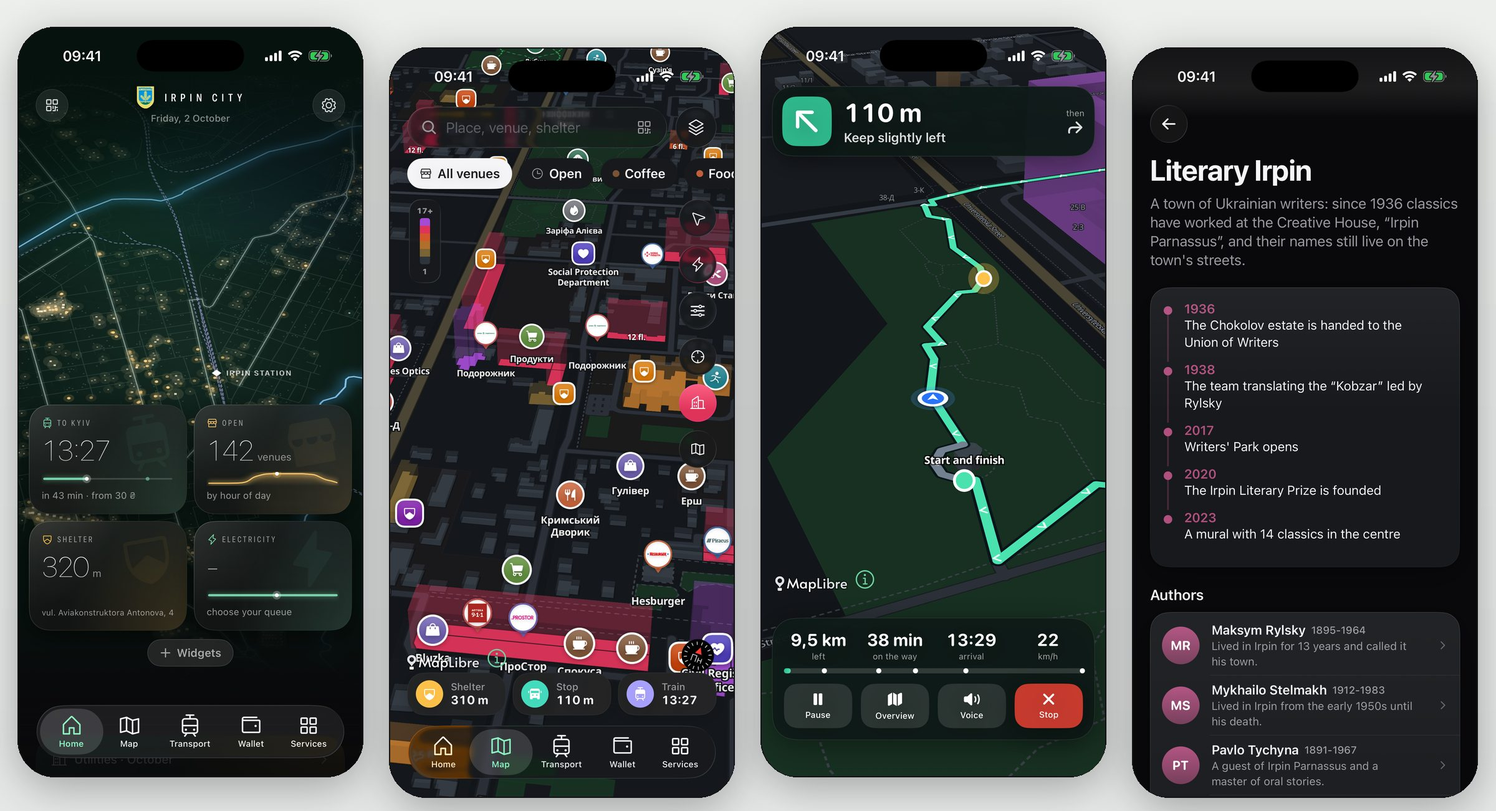
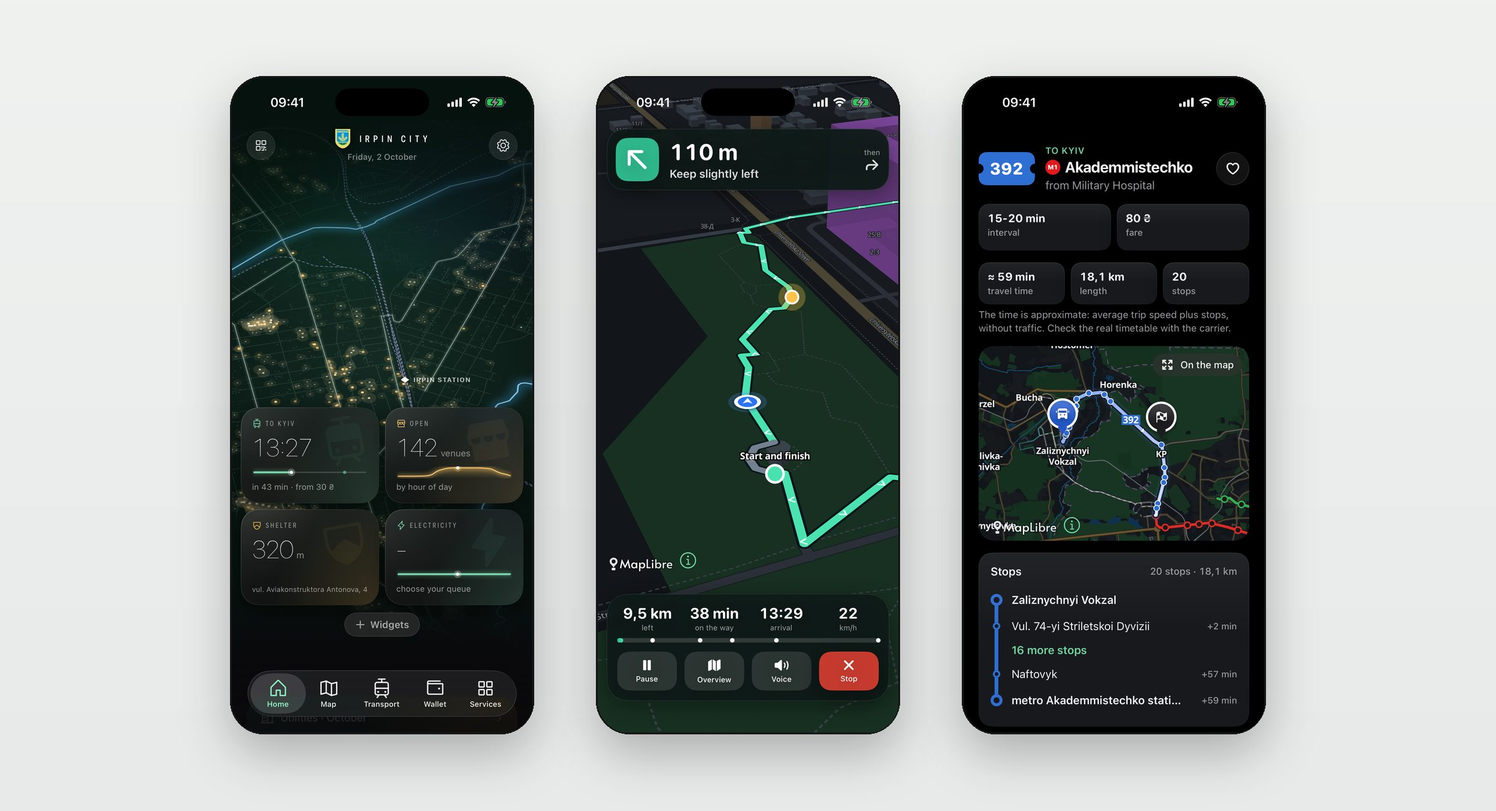
Irpin: feature sections instead of a screenshot strip, cleaner map frame, uncropped hero, home card split into labelled points

diff --git a/irpin/uk/index.html b/irpin/uk/index.html
@@ -56,8 +56,7 @@
       <div class="cta"><span class="btn soon" aria-disabled="true">Незабаром в App Store</span><a class="btn" href="/irpin/uk/support/">Підтримка</a></div>
     </div>
   </section>
-  <section class="shots" aria-label="Знімки екрана"><figure><img src="/irpin/img/uk/1-home.jpg" alt="Головна" width="450" height="978" loading="lazy" decoding="async"></figure><figure><img src="/irpin/img/uk/2-map.jpg" alt="Мапа з поверховістю будинків" width="450" height="978" loading="lazy" decoding="async"></figure><figure><img src="/irpin/img/uk/3-transport.jpg" alt="Транспорт" width="450" height="978" loading="lazy" decoding="async"></figure><figure><img src="/irpin/img/uk/4-services.jpg" alt="Послуги й довідник номерів" width="450" height="978" loading="lazy" decoding="async"></figure><figure><img src="/irpin/img/uk/5-literary.jpg" alt="Літературний Ірпінь" width="450" height="978" loading="lazy" decoding="async"></figure><figure><img src="/irpin/img/uk/6-navigation.jpg" alt="Навігація маршрутом" width="450" height="978" loading="lazy" decoding="async"></figure><figure><img src="/irpin/img/uk/7-place.jpg" alt="Сторінка місця з посиланнями" width="450" height="978" loading="lazy" decoding="async"></figure></section>
-  <section class="block"><h2>Що вміє</h2><div class="grid"><div><h3>Мапа</h3><p>Заклади, укриття, зупинки, велодоріжки й поверховість будинків у 3D, «відчинено зараз», пошук за вулицею чи закладом, а також налаштування вигляду: теми кольорів, густота підписів, тон будинків.</p></div><div><h3>Транспорт</h3><p>Електрички з Ірпеня з відліком і нагадуваннями, маршрутки до Києва, Бучі й Гостомеля з трасою на мапі й оцінкою часу, метро Києва зі сповіщеннями про зміни руху, квитки Укрзалізниці.</p></div><div><h3>Повітряна тривога</h3><p>Стан у громаді, найближче укриття й дорога до нього, миттєві сповіщення про тривогу й відбій, статистика за останні тижні.</p></div><div><h3>Світло</h3><p>Графік відключень ДТЕК для вашої черги, нагадування за 30 хвилин і панель із годинами відключень за добу.</p></div><div><h3>Прогулянки й велотраси</h3><p>47 піших, бігових і велосипедних маршрутів із профілем висот, покриттям, тим, що по дорозі, експортом GPX, а також навігація з поворотами й голосовими підказками.</p></div><div><h3>Літературний Ірпінь</h3><p>Пам&#x27;ятки, літературний мурал, Будинок творчості письменників і українські автори, пов&#x27;язані з містом: Рильський, Стельмах, Тичина та інші.</p></div><div><h3>Гаманець і комуналка</h3><p>Документи зі строками, лічильники, оплати, авто, екстрена картка й тривожна валізка із захистом Face ID, а також орієнтовна сума комуналки за місяць. Усе лишається на телефоні.</p></div><div><h3>Послуги й довідник номерів</h3><p>Довідки про ЦНАП і «Дію», екстрені номери, установи міста й ваші власні номери.</p></div></div></section>
+  <section class="feature"><figure class="pic phone"><img src="/irpin/img/uk/1-home.jpg" alt="Сьогодні" width="450" height="978" loading="lazy" decoding="async"></figure><div class="txt"><p class="mono">01</p><h2>Сьогодні</h2><p>Усе, що перевіряєте зранку, на одному екрані.</p><ul><li>Найближча електричка до Києва з відліком</li><li>Скільки закладів відчинено й коли пік</li><li>Найближче укриття й ваша черга світла</li></ul></div></section><section class="feature flip"><figure class="pic wide"><img src="/irpin/img/uk/map-crop.jpg" alt="Мапа" width="1000" height="560" loading="lazy" decoding="async"></figure><div class="txt"><p class="mono">02</p><h2>Мапа</h2><p>Спокійна нічна мапа, що показує лише потрібне: поверховість будинків у 3D, укриття, зупинки й заклади. Змінюйте тему кольорів, густоту підписів і тон будинків або вимикайте шари.</p><ul><li>Поверховість кожного будинку</li><li>Фільтр «Відчинено» й пошук за вулицею</li><li>Змінити вигляд за два дотики</li></ul></div></section><section class="feature"><figure class="pic phone"><img src="/irpin/img/uk/8-route.jpg" alt="Транспорт" width="450" height="978" loading="lazy" decoding="async"></figure><div class="txt"><p class="mono">03</p><h2>Транспорт</h2><p>Маршрутки й електрички з трасою на мапі та чесною оцінкою часу до кожної зупинки.</p><ul><li>Електрички з Ірпеня з відліком і нагадуваннями</li><li>Маршрутки до Києва, Бучі й Гостомеля</li><li>Метро Києва зі сповіщеннями про зміни руху</li></ul></div></section><section class="feature flip"><figure class="pic phone"><img src="/irpin/img/uk/6-navigation.jpg" alt="Прогулянки й велотраси" width="450" height="978" loading="lazy" decoding="async"></figure><div class="txt"><p class="mono">04</p><h2>Прогулянки й велотраси</h2><p>47 маршрутів із профілем висот, покриттям і тим, що по дорозі. Увімкніть навігацію й рухайтесь за підказками, за бажанням голосом.</p><ul><li>Висоти, покриття й питна вода по дорозі</li><li>Експорт GPX</li><li>Навігація працює із заблокованим екраном</li></ul></div></section><section class="feature"><figure class="pic phone"><img src="/irpin/img/uk/5-literary.jpg" alt="Літературний Ірпінь" width="450" height="978" loading="lazy" decoding="async"></figure><div class="txt"><p class="mono">05</p><h2>Літературний Ірпінь</h2><p>Українські письменники міста, Будинок творчості, мурал із чотирнадцяти класиків. Описи - це посилання, тож одна пам&#x27;ятка веде до наступної.</p><ul><li>15 авторів, від Рильського до Костенко</li><li>Пам&#x27;ятки з фото й маршрутами</li><li>Кожен опис веде далі</li></ul></div></section><section class="feature flip"><figure class="pic phone"><img src="/irpin/img/uk/4-services.jpg" alt="Послуги й довідник номерів" width="450" height="978" loading="lazy" decoding="async"></figure><div class="txt"><p class="mono">06</p><h2>Послуги й довідник номерів</h2><p>Екстрені номери, установи міста й ваші контакти, а також довідки про ЦНАП і «Дію».</p><ul><li>Дзвінок одним дотиком із підтвердженням</li><li>Потрібні номери закріплюються нагорі</li><li>Комуналка, документи й екстрена картка лишаються на телефоні</li></ul></div></section>
   <section class="block"><h2>Приватність за задумом</h2><div class="grid grid3"><div><h3>Без акаунтів</h3><p>Входити нікуди не треба. Застосунок працює без реєстрації.</p></div><div><h3>Дані лишаються на телефоні</h3><p>Документи, лічильники, адреса й екстрена картка нікуди не надсилаються. Розробник їх не бачить.</p></div><div><h3>Без реклами й стеження</h3><p>Без аналітики, рекламних ідентифікаторів і сторонніх трекерів.</p></div></div></section>
   <section class="block note"><h2>Важливо</h2><p>Ірпінь Сіті не є офіційним застосунком міської ради, ДТЕК, Укрзалізниці, «Дії» чи будь-якої іншої установи й не замінює сирени та офіційні системи оповіщення. Розклади, тарифи й години роботи беруться з відкритих джерел: перевіряйте перед поїздкою.</p></section>
   <section class="block"><h2>Правова інформація й підтримка</h2><div class="links"><a href="/irpin/uk/privacy/"><strong>Політика конфіденційності</strong><span>Як застосунок поводиться з вашими даними</span></a><a href="/irpin/uk/terms/"><strong>Умови використання</strong><span>Що це за застосунок і чим він не є</span></a><a href="/irpin/uk/licenses/"><strong>Ліцензії</strong><span>Відкриті дані, фото й програмні компоненти</span></a><a href="/irpin/uk/support/"><strong>Підтримка</strong><span>Контакти, питання й як повідомити про помилку</span></a></div></section>

diff --git a/irpin/index.html b/irpin/index.html
@@ -56,8 +56,7 @@
       <div class="cta"><span class="btn soon" aria-disabled="true">Coming to the App Store</span><a class="btn" href="/irpin/support/">Support</a></div>
     </div>
   </section>
-  <section class="shots" aria-label="Screenshots"><figure><img src="/irpin/img/en/1-home.jpg" alt="Home" width="450" height="978" loading="lazy" decoding="async"></figure><figure><img src="/irpin/img/en/2-map.jpg" alt="Map with building heights" width="450" height="978" loading="lazy" decoding="async"></figure><figure><img src="/irpin/img/en/3-transport.jpg" alt="Transport" width="450" height="978" loading="lazy" decoding="async"></figure><figure><img src="/irpin/img/en/4-services.jpg" alt="Services and phone book" width="450" height="978" loading="lazy" decoding="async"></figure><figure><img src="/irpin/img/en/5-literary.jpg" alt="Literary Irpin" width="450" height="978" loading="lazy" decoding="async"></figure><figure><img src="/irpin/img/en/6-navigation.jpg" alt="Route navigation" width="450" height="978" loading="lazy" decoding="async"></figure><figure><img src="/irpin/img/en/7-place.jpg" alt="A place page with links" width="450" height="978" loading="lazy" decoding="async"></figure></section>
-  <section class="block"><h2>What it does</h2><div class="grid"><div><h3>Map</h3><p>Venues, shelters, stops, cycle paths and 3D building heights, “open now”, search by street or venue, and a map you can restyle: colour themes, label density, building tone.</p></div><div><h3>Transport</h3><p>Trains from Irpin with a countdown and reminders, minibuses to Kyiv, Bucha and Hostomel with the route on the map and a time estimate, the Kyiv metro with service-change notices, Ukrzaliznytsia tickets.</p></div><div><h3>Air raid alerts</h3><p>Status in the community, the nearest shelter and route to it, instant notifications for an alert and the all-clear, and statistics for the last weeks.</p></div><div><h3>Power</h3><p>The DTEK outage schedule for your queue, a reminder 30 minutes before, and a dashboard with the day’s outage hours.</p></div><div><h3>Walks and bike routes</h3><p>47 walking, running and cycling routes with elevation profiles, surfaces, what is along the way and GPX export, plus turn-by-turn navigation with voice prompts.</p></div><div><h3>Literary Irpin</h3><p>Sights, a literary mural, the Writers’ Creative House and Ukrainian authors tied to the town: Rylsky, Stelmakh, Tychyna and more.</p></div><div><h3>Wallet and utilities</h3><p>Documents with expiry dates, meters, payments, cars, an emergency card and a go-bag, locked with Face ID, and an estimated monthly utility bill. Everything stays on the phone.</p></div><div><h3>Services and phone book</h3><p>Service centre and Diia guides, emergency numbers, the town’s offices and your own numbers.</p></div></div></section>
+  <section class="feature"><figure class="pic phone"><img src="/irpin/img/en/1-home.jpg" alt="Today" width="450" height="978" loading="lazy" decoding="async"></figure><div class="txt"><p class="mono">01</p><h2>Today</h2><p>Everything you check in the morning, on one screen.</p><ul><li>Next train to Kyiv with a countdown</li><li>How many venues are open, and when it peaks</li><li>Nearest shelter and your power outage queue</li></ul></div></section><section class="feature flip"><figure class="pic wide"><img src="/irpin/img/en/map-crop.jpg" alt="Map" width="1000" height="560" loading="lazy" decoding="async"></figure><div class="txt"><p class="mono">02</p><h2>Map</h2><p>A calm night map that shows only what you ask for: building heights in 3D, shelters, stops and venues. Change the colour theme, label density and building tone, or switch layers off.</p><ul><li>Floor counts for every building</li><li>“Open now” filter and search by street</li><li>Restyle it in two taps</li></ul></div></section><section class="feature"><figure class="pic phone"><img src="/irpin/img/en/8-route.jpg" alt="Transport" width="450" height="978" loading="lazy" decoding="async"></figure><div class="txt"><p class="mono">03</p><h2>Transport</h2><p>Minibuses and trains with the route drawn on the map and an honest time estimate for every stop.</p><ul><li>Trains from Irpin with a countdown and reminders</li><li>Minibuses to Kyiv, Bucha and Hostomel</li><li>Kyiv metro with service-change notices</li></ul></div></section><section class="feature flip"><figure class="pic phone"><img src="/irpin/img/en/6-navigation.jpg" alt="Walks and bike routes" width="450" height="978" loading="lazy" decoding="async"></figure><div class="txt"><p class="mono">04</p><h2>Walks and bike routes</h2><p>47 routes with elevation profiles, surfaces and what lies along the way. Start navigation and follow turn prompts, by voice if you like.</p><ul><li>Elevation, surface and water points on the way</li><li>GPX export</li><li>Navigation works with the screen locked</li></ul></div></section><section class="feature"><figure class="pic phone"><img src="/irpin/img/en/5-literary.jpg" alt="Literary Irpin" width="450" height="978" loading="lazy" decoding="async"></figure><div class="txt"><p class="mono">05</p><h2>Literary Irpin</h2><p>The town’s Ukrainian writers, the Creative House, a mural of fourteen classics. Descriptions are links, so one sight leads to the next.</p><ul><li>15 authors, from Rylsky to Kostenko</li><li>Sights with photos and routes</li><li>Every description links onwards</li></ul></div></section><section class="feature flip"><figure class="pic phone"><img src="/irpin/img/en/4-services.jpg" alt="Services and phone book" width="450" height="978" loading="lazy" decoding="async"></figure><div class="txt"><p class="mono">06</p><h2>Services and phone book</h2><p>Emergency numbers, the town’s offices and your own contacts, plus guides to the service centre and Diia.</p><ul><li>Call with one tap, with confirmation</li><li>Save the numbers you need on top</li><li>Utilities, documents and an emergency card stay on your phone</li></ul></div></section>
   <section class="block"><h2>Private by design</h2><div class="grid grid3"><div><h3>No accounts</h3><p>There is nothing to sign in to. The app works without registration.</p></div><div><h3>Data stays on your phone</h3><p>Documents, meters, address and the emergency card are never sent anywhere. The developer does not see them.</p></div><div><h3>No ads, no tracking</h3><p>No analytics, no advertising identifiers, no third-party trackers.</p></div></div></section>
   <section class="block note"><h2>Please note</h2><p>Irpin City is not an official app of the city council, DTEK, Ukrzaliznytsia, Diia or any other institution. It does not replace sirens or official warning systems. Timetables, tariffs and opening hours come from open sources: check before you travel.</p></section>
   <section class="block"><h2>Legal and support</h2><div class="links"><a href="/irpin/privacy/"><strong>Privacy Policy</strong><span>How the app treats your data</span></a><a href="/irpin/terms/"><strong>Terms of Use</strong><span>What the app is and what it is not</span></a><a href="/irpin/licenses/"><strong>Licences</strong><span>Open data, photos and software</span></a><a href="/irpin/support/"><strong>Support</strong><span>Contact, questions and how to report an error</span></a></div></section>

diff --git a/index.html b/index.html
@@ -194,7 +194,17 @@
         <div class="shot"><img src="images/works/irpin-ios.jpg" srcset="images/works/irpin-ios.jpg 1600w, images/works/irpin-ios-2400.jpg 2400w" sizes="(max-width: 760px) 100vw, 1200px" alt="Irpin City for iPhone: the home screen with live widgets, the 3D map of building heights, route navigation with turn prompts, and the Literary Irpin guide" width="1600" height="867" decoding="async"></div>
         <div class="role mono">Native iOS app · Swift and SwiftUI · coming to the App Store</div>
         <h3>Irpin City for iPhone</h3>
-        <p>An independent guide to the town of Irpin, built from open data and designed to be used daily. A night-style map extrudes every building by its floor count and restyles on demand; shelters, stops, venues with “open now” and 47 walking, running and cycling routes sit on it. Routes carry elevation profiles, surfaces and what lies along the way, export to GPX, and run as turn-by-turn navigation with voice prompts in Ukrainian or English. Trains and minibuses show a countdown and a time estimate, the Kyiv metro raises service-change notices, and air-raid alerts, a power-outage schedule and utility bills are kept at hand. Descriptions are themselves links: a sight leads to its authors, a stop to its timetable. A Literary Irpin section follows the Ukrainian writers tied to the town, from the Writers’ Creative House to the mural of fourteen classics. A wallet with an emergency card is locked with Face ID. No account, no advertising, no analytics: documents, meters and the card never leave the phone. The privacy policy, terms and support are published in English and Ukrainian.</p>
+        <div class="feat-body">
+          <p>An independent guide to the town of Irpin, built from open data and meant to be used every day. No account, no advertising, no analytics: documents, meters and the emergency card never leave the phone.</p>
+          <dl class="feat-points">
+            <div><dt>Map</dt><dd>A night map that extrudes every building by its floor count, with shelters, stops and “open now”, restyled on demand.</dd></div>
+            <div><dt>Transport</dt><dd>Trains and minibuses with a countdown and time estimate; Kyiv metro service-change notices.</dd></div>
+            <div><dt>Routes</dt><dd>47 walking, running and cycling routes with elevation, GPX and turn-by-turn voice navigation.</dd></div>
+            <div><dt>Literary Irpin</dt><dd>Sights and Ukrainian writers tied to the town; every description is a link onwards.</dd></div>
+            <div><dt>Daily</dt><dd>Air-raid alerts, power-outage schedule, utilities, wallet with Face ID, phone book.</dd></div>
+            <div><dt>Languages</dt><dd>Ukrainian and English, with the privacy policy, terms and support for both.</dd></div>
+          </dl>
+        </div>
         <div class="meta mono"><span class="t">munister.com.ua/irpin · Ukrainian: /irpin/uk/</span><span><i class="ext" aria-hidden="true"></i></span></div>
       </a>
 

diff --git a/irpin/irpin.css b/irpin/irpin.css
@@ -16,6 +16,18 @@
 .shots{display:flex;gap:clamp(12px,2vw,20px);overflow-x:auto;scroll-snap-type:x mandatory;padding:6px 2px 22px;margin:0 calc(-1*clamp(20px,4vw,54px));padding-inline:clamp(20px,4vw,54px);scrollbar-width:thin}
 .shots figure{flex:0 0 clamp(190px,24vw,250px);margin:0;scroll-snap-align:start}
 .shots img{width:100%;height:auto;border-radius:22px;border:1px solid var(--c-rule);box-shadow:0 10px 30px rgba(0,0,0,.12);display:block;background:#0b0b0d}
+.feature{display:grid;grid-template-columns:minmax(0,.8fr) minmax(0,1.2fr);gap:clamp(24px,5vw,72px);align-items:center;padding:clamp(34px,6vw,76px) 0;border-top:1px solid var(--c-rule)}
+.feature.flip{grid-template-columns:minmax(0,1.2fr) minmax(0,.8fr)}
+.feature.flip .pic{order:2}
+.feature .pic{margin:0;display:flex;justify-content:center}
+.feature .pic img{width:min(100%,300px);height:auto;border-radius:30px;border:1px solid var(--c-rule);box-shadow:0 22px 50px -18px rgba(0,0,0,.35);background:#0b0b0d}
+.feature .pic.wide img{width:100%;max-width:560px;border-radius:22px}
+.feature h2{font-family:var(--font-head);font-weight:400;font-size:clamp(1.8rem,3.4vw,2.8rem);letter-spacing:-.015em;line-height:1.05;margin:.2em 0 .5em}
+.feature .txt>p:not(.mono){font-size:1.12rem;line-height:1.55;color:var(--c-muted);max-width:34rem}
+.feature ul{margin:1.1em 0 0;padding:0;list-style:none;display:grid;gap:.5em}
+.feature li{padding-left:1.3em;position:relative;max-width:34rem}
+.feature li::before{content:"";position:absolute;left:0;top:.62em;width:7px;height:7px;border-radius:50%;background:var(--c-ink)}
+@media (max-width:760px){.feature,.feature.flip{grid-template-columns:1fr}.feature.flip .pic{order:0}}
 .block{margin-top:clamp(2.4rem,5vw,4rem)}
 .block h2,.doc h2{font-family:var(--font-head);font-weight:400;font-size:clamp(1.4rem,2.6vw,2rem);letter-spacing:-.01em;margin:0 0 .8em}
 .grid{display:grid;grid-template-columns:repeat(auto-fit,minmax(260px,1fr));gap:clamp(18px,3vw,34px) clamp(22px,4vw,48px)}

diff --git a/munister.css b/munister.css
@@ -506,3 +506,13 @@ p{text-wrap:pretty}
   .platform-note{grid-template-columns:1fr}
 }
 @media (prefers-reduced-motion:reduce){html{scroll-behavior:auto}*,*::before,*::after{animation:none!important;transition:none!important}}
+
+/* Карточка Ірпеня: короткий вступ і підписані пункти замість суцільного абзацу. */
+.feat .feat-body{order:3;margin-top:13px}
+.feat.feat-full .feat-body{grid-column:2;grid-row:2 / span 3;margin-top:24px;max-width:64ch}
+.feat .feat-body>p{margin:0;font-size:18px;line-height:1.45;color:var(--c-muted);max-width:none}
+.feat-points{display:grid;grid-template-columns:repeat(2,minmax(0,1fr));gap:18px 28px;margin:22px 0 0}
+.feat-points>div{border-top:1px solid var(--c-rule);padding-top:10px}
+.feat-points dt{font-size:10px;letter-spacing:.2em;text-transform:uppercase;color:var(--c-faint);margin:0 0 4px}
+.feat-points dd{margin:0;font-size:15px;line-height:1.4;color:var(--c-muted)}
+@media (max-width:640px){.feat-points{grid-template-columns:1fr}}
